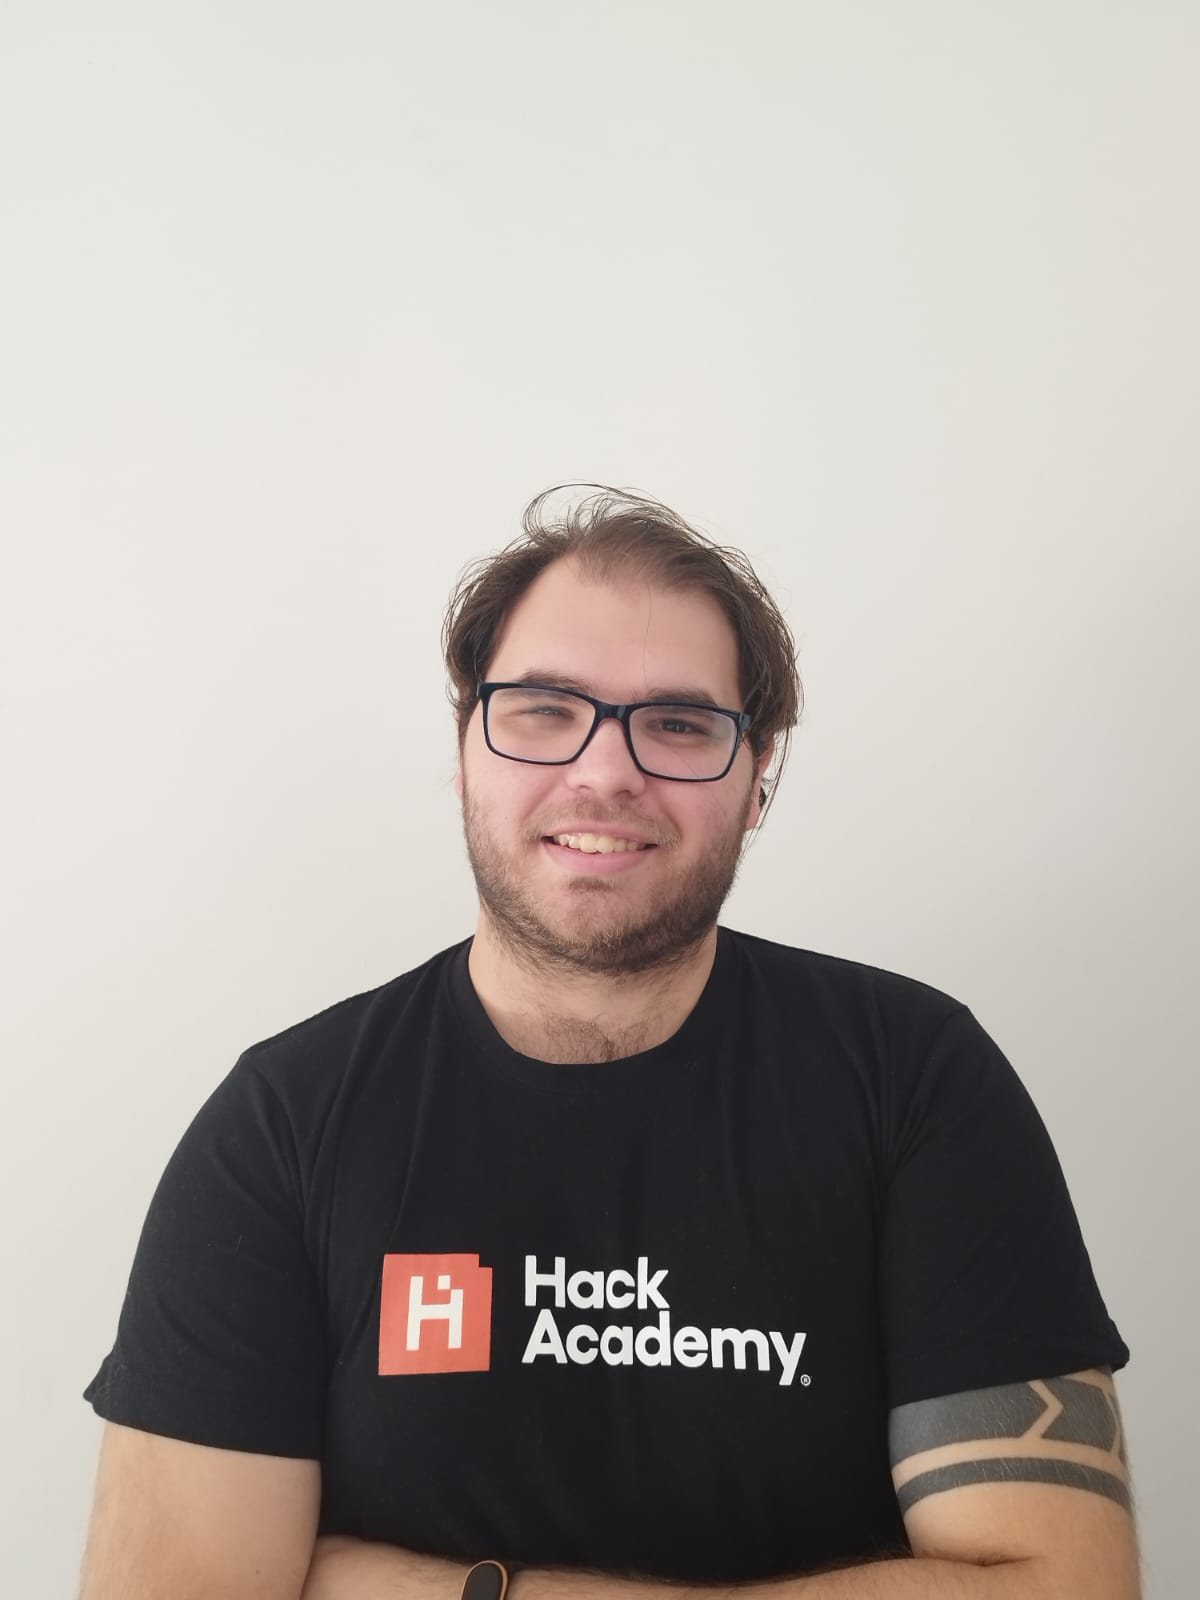
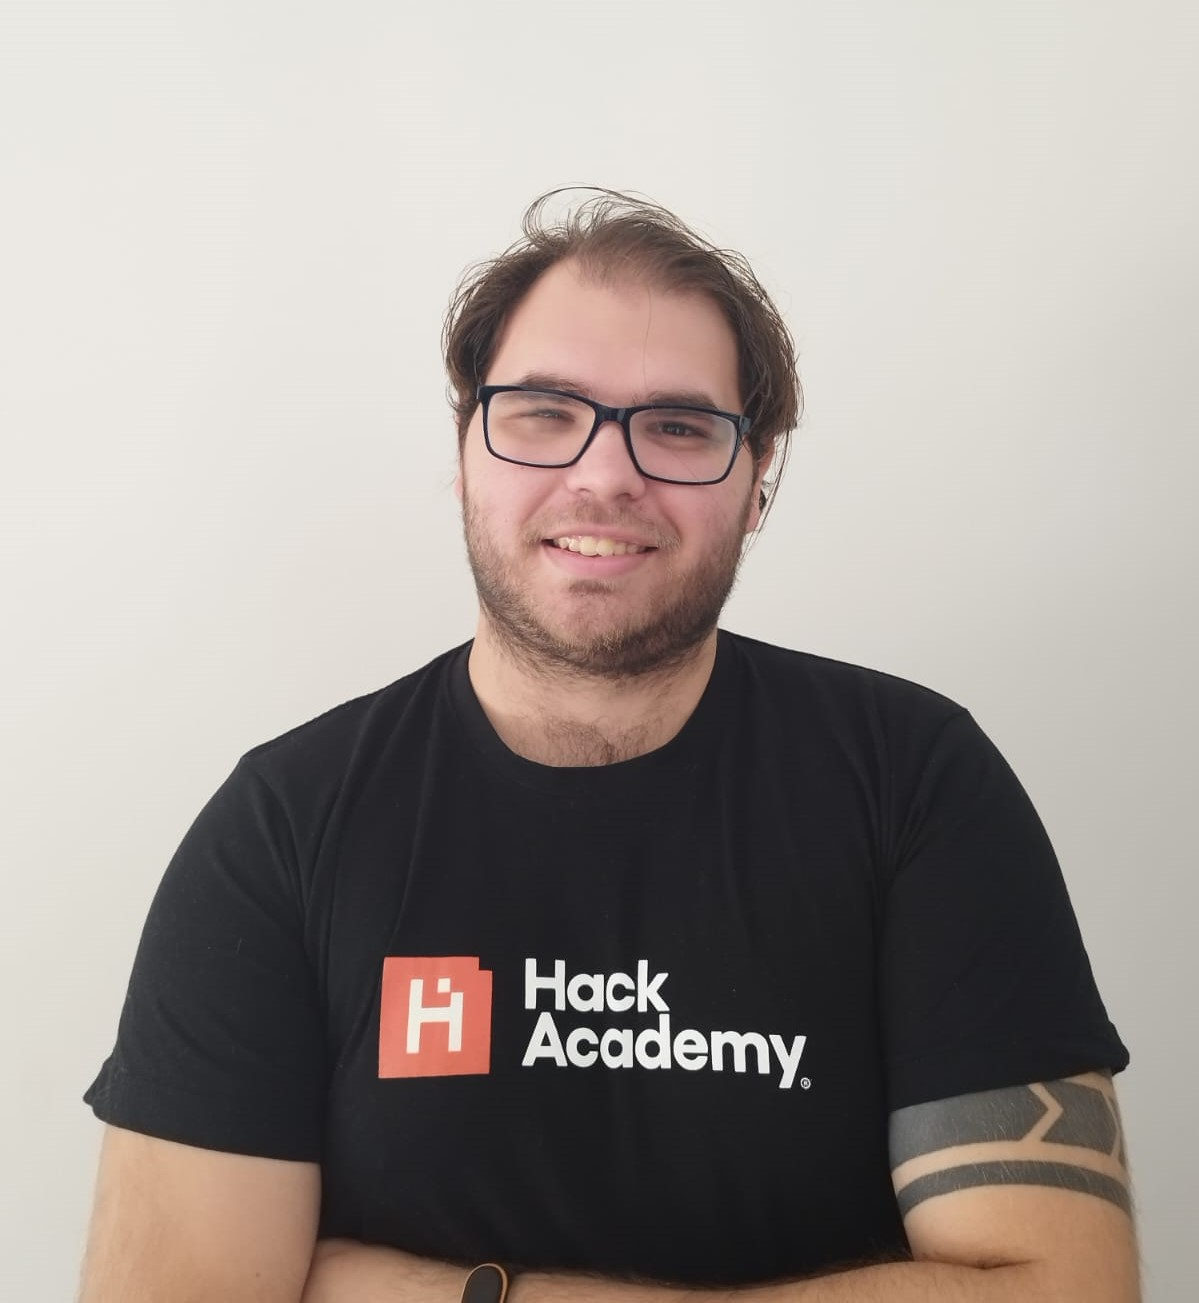
bruno image

diff --git a/src/components/AboutTeam.jsx b/src/components/AboutTeam.jsx
@@ -4,8 +4,8 @@ import TeamCard from "./TeamCard";
 
 import "./AboutTeam.css";
 
-import img from "../assets/IMG_9221-PhotoRoom.png-PhotoRoom.png";
-import BackButton from "./BackButton";
+import maxiImg from "../assets/IMG_9221-PhotoRoom.png-PhotoRoom.png";
+import brunoImg from "../assets/fotoBruno.jpg";
 
 function AboutTeam() {
   return (
@@ -13,35 +13,35 @@ function AboutTeam() {
       <h2 className="about-team-title  p-0 px-4">Our Team</h2>
       <Row className="d-flex mt-2 px-2 justify-content-between g-4">
         <TeamCard
-          img={img}
+          img=""
           name="Augusto"
           title="Full Stack Developer"
           ghLink="https://github.com/augustoriccardi"
           ldLink="https://www.linkedin.com/in/augusto-riccardi/"
         />
         <TeamCard
-          img={img}
+          img={maxiImg}
           name="Maximiliano"
           title="Full Stack Developer"
           ghLink="https://github.com/kasenawe"
           ldLink="https://www.linkedin.com/in/maximiliano-quintana-tabarez/"
         />
         <TeamCard
-          img={img}
+          img=""
           name="Gastón"
           title="Full Stack Developer"
           ghLink="https://github.com/G-Laffitte"
           ldLink="https://www.linkedin.com/in/gastonlaffitte/"
         />
         <TeamCard
-          img={img}
+          img=""
           name="Joaquin"
           title="Full Stack Developer"
           ghLink="https://github.com/joaquingonjua"
           ldLink="https://www.linkedin.com/in/joaquingonzalezjuambeltz/"
         />
         <TeamCard
-          img={img}
+          img={brunoImg}
           name="Bruno"
           title="Full Stack Developer"
           ghLink="https://github.com/BMandure"
